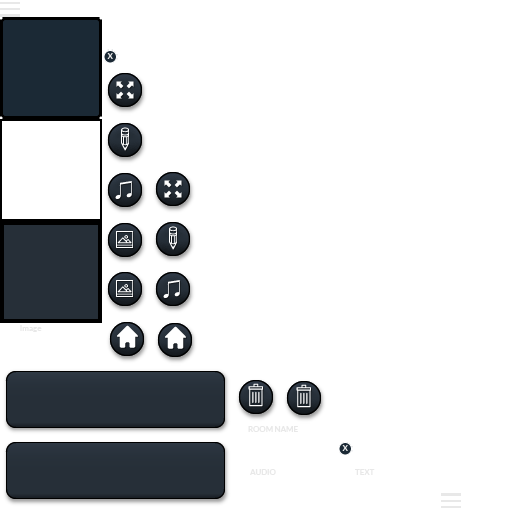
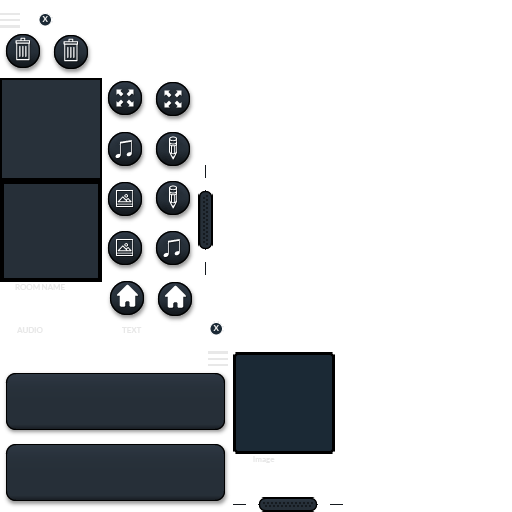
Added test of game layout.

diff --git a/core/src/main/java/com/ray3k/liftoff/Core.java b/core/src/main/java/com/ray3k/liftoff/Core.java
@@ -4,9 +4,7 @@ import com.badlogic.gdx.ApplicationAdapter;
 import com.badlogic.gdx.Gdx;
 import com.badlogic.gdx.graphics.Color;
 import com.badlogic.gdx.scenes.scene2d.Stage;
-import com.badlogic.gdx.scenes.scene2d.ui.Skin;
-import com.badlogic.gdx.scenes.scene2d.ui.Table;
-import com.badlogic.gdx.scenes.scene2d.ui.TextButton;
+import com.badlogic.gdx.scenes.scene2d.ui.*;
 import com.badlogic.gdx.utils.ScreenUtils;
 import com.badlogic.gdx.utils.viewport.ScreenViewport;
 import com.ray3k.stripe.FreeTypeSkin;
@@ -15,6 +13,7 @@ public class Core extends ApplicationAdapter {
     public static Skin skin;
     public static Stage stage;
     public static ScreenViewport viewport;
+    private static final String long_text = "The quick brown fox jumped over the lazy dog. The quick brown fox jumped over the lazy dog. The quick brown fox jumped over the lazy dog. The quick brown fox jumped over the lazy dog. The quick brown fox jumped over the lazy dog. The quick brown fox jumped over the lazy dog. The quick brown fox jumped over the lazy dog. The quick brown fox jumped over the lazy dog. The quick brown fox jumped over the lazy dog. The quick brown fox jumped over the lazy dog. The quick brown fox jumped over the lazy dog. The quick brown fox jumped over the lazy dog. The quick brown fox jumped over the lazy dog. The quick brown fox jumped over the lazy dog. The quick brown fox jumped over the lazy dog. The quick brown fox jumped over the lazy dog. The quick brown fox jumped over the lazy dog.";
     
     @Override
     public void create() {
@@ -25,10 +24,31 @@ public class Core extends ApplicationAdapter {
         
         var root = new Table();
         root.setFillParent(true);
+        root.setBackground(skin.getDrawable("bg-10"));
         stage.addActor(root);
         
+        var table = new Table();
+        var top = new ScrollPane(table, skin, "panel");
+        top.setFadeScrollBars(false);
+        
+        var label = new Label(long_text, skin);
+        label.setWrap(true);
+        table.add(label).growX();
+        
+        table = new Table();
+        var bottom = new ScrollPane(table, skin, "panel");
+        bottom.setFadeScrollBars(false);
+        
         var textButton = new TextButton("test", skin);
-        root.add(textButton);
+        table.add(textButton).expandX().left();
+        
+        table.row();
+        label = new Label(long_text, skin);
+        label.setWrap(true);
+        table.add(label).growX();
+    
+        var splitPane = new SplitPane(top, bottom, true, skin);
+        root.add(splitPane).grow();
     }
     
     @Override
